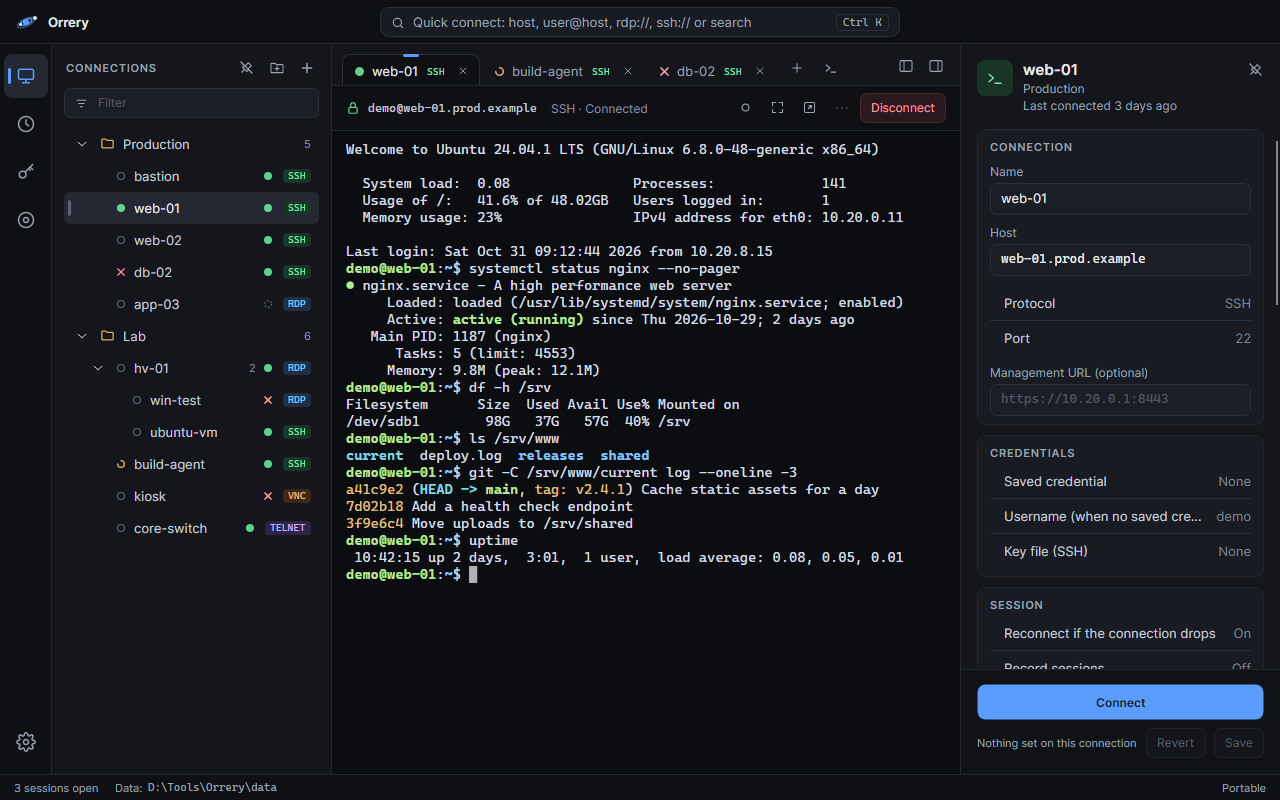
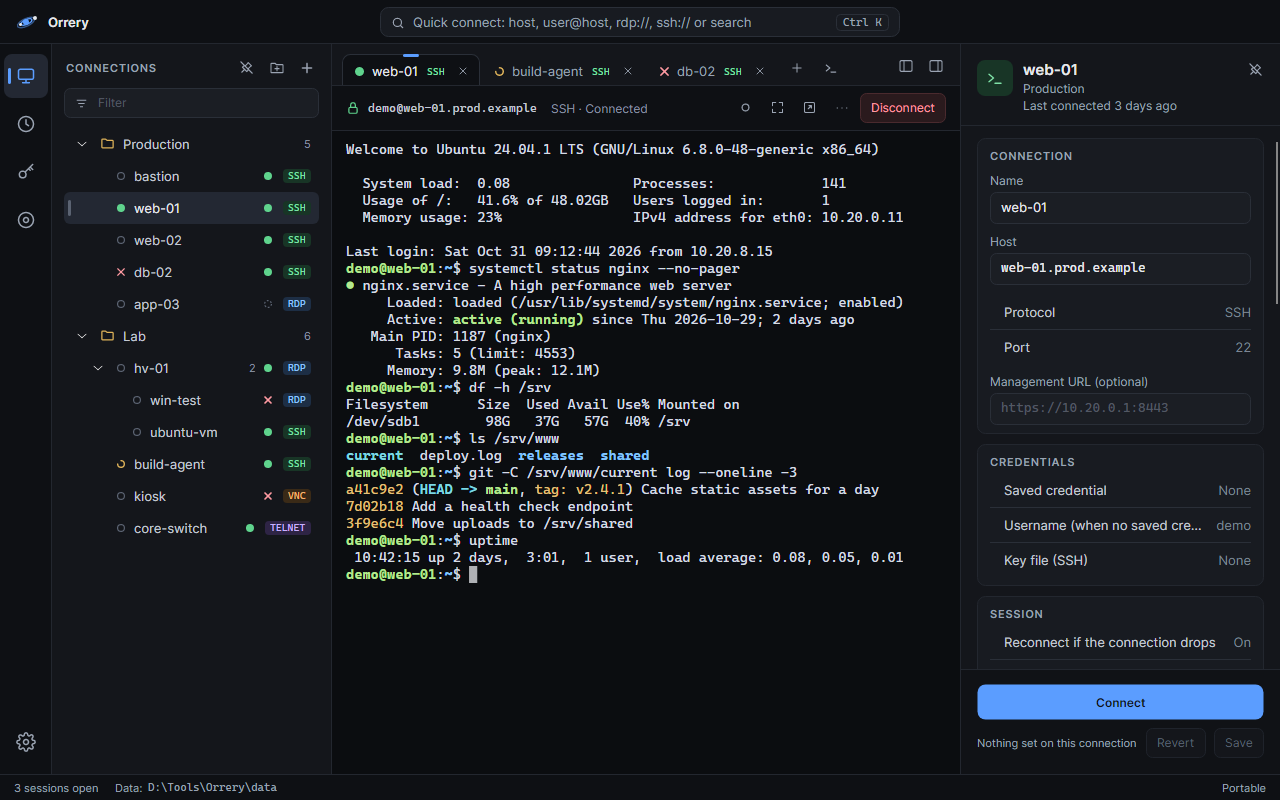
Settings pane: a line under the header, as over the footer
The header (the connection's name, folder and last connect) is pinned
over the scrolling cards with the footer's hairline under it, so it no
longer runs into the first section.

diff --git a/src/Orrery.App/Connections/PropertiesPanel.cs b/src/Orrery.App/Connections/PropertiesPanel.cs
@@ -333,7 +333,7 @@ sealed class PropertiesPanel : UserControl
         var editor = new StackPanel
         {
             Spacing = 10,
-            Margin = new Thickness(16, 4, 16, 16),
+            Margin = new Thickness(16, 12, 16, 16),
             Children =
             {
                 Pane.Section("Connection", _nameField, _hostField, Pane.Rows(_protocolRow.View, _portRow.View), _managementUrlField),
@@ -374,12 +374,11 @@ sealed class PropertiesPanel : UserControl
         {
             Children =
             {
-                Pane.Docked(new StackPanel
+                Pane.Docked(Pane.HeaderStrip(new StackPanel
                 {
                     Spacing = 14,
-                    Margin = new Thickness(16, 16, 16, 12),
                     Children = { Pane.Header(_tile, _title, _path, _lastConnected, _lastFailed), _tabStrip },
-                }, Dock.Top),
+                }), Dock.Top),
                 _body,
             },
         };

diff --git a/src/Orrery.App/Controls/Pane.cs b/src/Orrery.App/Controls/Pane.cs
@@ -97,6 +97,15 @@ static class Pane
         Child = content,
     };
 
+    /// <summary>The pane's header, pinned over the scrolling content and set off from it by the footer's line.</summary>
+    public static Control HeaderStrip(Control content) => new Border
+    {
+        BorderBrush = LineBrush,
+        BorderThickness = new Thickness(0, 0, 0, 1),
+        Padding = new Thickness(16, 16, 16, 12),
+        Child = content,
+    };
+
     /// <summary>A scrolling body with a footer pinned under it.</summary>
     public static Control WithFooter(Control body, Control footer) => new DockPanel
     {

diff --git a/src/Orrery.App/Sessions/SessionSettingsView.cs b/src/Orrery.App/Sessions/SessionSettingsView.cs
@@ -109,7 +109,7 @@ sealed class SessionSettingsView : UserControl
             }
         };
 
-        var body = new StackPanel { Margin = new Thickness(16, 0, 16, 16) };
+        var body = new StackPanel { Margin = new Thickness(16, 12, 16, 16) };
         body.Children.Add(Note("Changes here reach the open tab at once and last until it closes. Saved settings stay as they are unless you keep a change."));
         foreach (var item in _items)
         {
